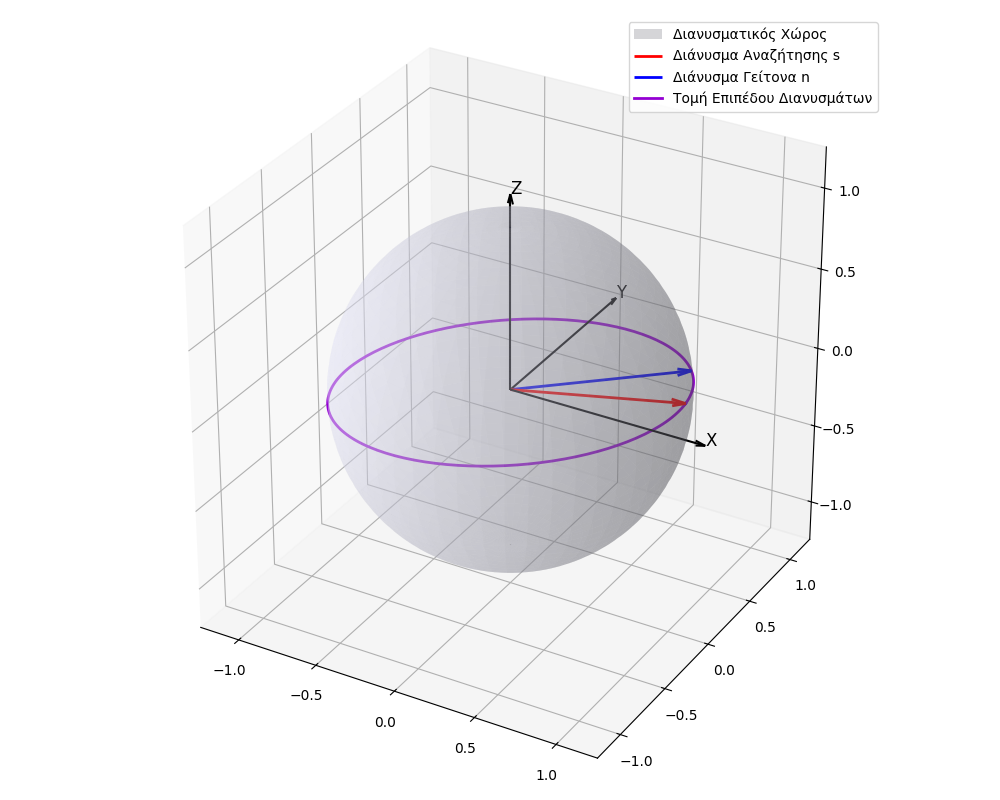
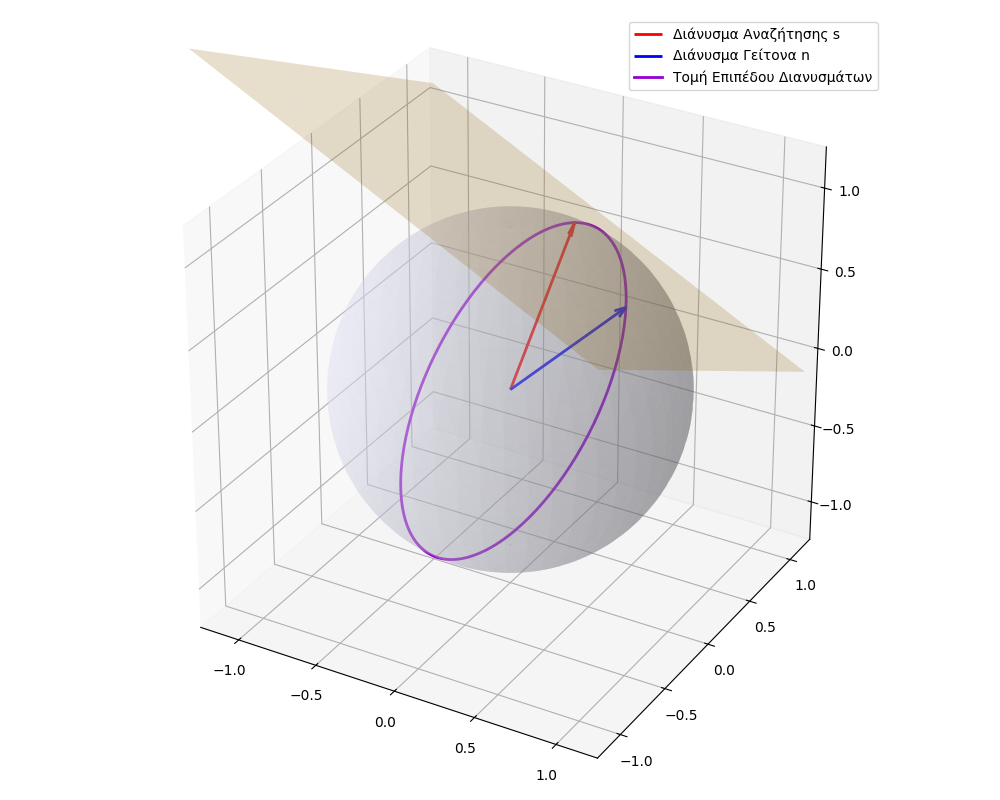
plane plotting

diff --git a/llm_blockmerger/core/plots.py b/llm_blockmerger/core/plots.py
@@ -1,25 +1,29 @@
 import numpy as np
 import matplotlib.pyplot as plt
 
-def plot_sphere():
-    fig = plt.figure(figsize=(10, 8))
-    ax = fig.add_subplot(111, projection='3d')
-
-    u, v = np.mgrid[0:2*np.pi:100j, 0:np.pi:100j]
+def sphere(ax):
+    u, v = np.mgrid[0:2 * np.pi:100j, 0:np.pi:100j]
     x_s = np.cos(u) * np.sin(v)
     y_s = np.sin(u) * np.sin(v)
     z_s = np.cos(v)
-    ax.plot_surface(x_s, y_s, z_s, color='lavender', alpha=0.3, edgecolor='none', label='Διανυσματικός Χώρος')
+    ax.plot_surface(x_s, y_s, z_s, color='lavender', alpha=0.3, edgecolor='none')
 
-    v1 = np.array([1, 0.2, 0.1])
-    v1 = v1 / np.linalg.norm(v1)
-
-    v2 = np.array([0.8, 0.6, 0.05])
-    v2 = v2 / np.linalg.norm(v2)
-
+def vectors(v1, v2, ax):
     ax.quiver(0, 0, 0, *v1, color='red', linewidth=2, arrow_length_ratio=0.08, length=1.0, label='Διάνυσμα Αναζήτησης s')
     ax.quiver(0, 0, 0, *v2, color='blue', linewidth=2, arrow_length_ratio=0.08, length=1.0, label='Διάνυσμα Γείτονα n')
 
+def plane(v1: np.ndarray, v2: np.ndarray, ax):
+    normal = (v1 + v2) / 2
+    normal = normal / np.linalg.norm(normal)
+    a, b, c = normal
+    d = np.dot(normal, v1)
+
+    xx, yy = np.meshgrid(np.linspace(-1.2, 1.2, 30), np.linspace(-1.2, 1.2, 30))
+    zz = (d - a * xx - b * yy) / c
+
+    ax.plot_surface(xx, yy, zz, alpha=0.2, color='orange')
+
+def circle(v1: np.ndarray, v2: np.ndarray, ax):
     normal = np.cross(v1, v2)
     normal = normal / np.linalg.norm(normal)
 
@@ -27,22 +31,27 @@ def plot_sphere():
     v_dir = np.cross(normal, u_dir)
 
     theta = np.linspace(0, 2 * np.pi, 200)
-    circle = np.array([np.cos(t)*u_dir + np.sin(t)*v_dir for t in theta])
-    ax.plot(circle[:, 0], circle[:, 1], circle[:, 2], color='darkviolet', linewidth=2, label='Τομή Επιπέδου Διανυσμάτων')
+    c = np.array([np.cos(t) * u_dir + np.sin(t) * v_dir for t in theta])
+    ax.plot(c[:, 0], c[:, 1], c[:, 2], color='darkviolet', linewidth=2,
+            label='Τομή Επιπέδου Διανυσμάτων')
 
-    axis_length = 1.2
-    ax.quiver(0, 0, 0, axis_length, 0, 0, color='black', linewidth=1.5, arrow_length_ratio=0.05)
-    ax.quiver(0, 0, 0, 0, axis_length, 0, color='black', linewidth=1.5, arrow_length_ratio=0.05)
-    ax.quiver(0, 0, 0, 0, 0, axis_length, color='black', linewidth=1.5, arrow_length_ratio=0.05)
+def plot_sphere():
+    fig = plt.figure(figsize=(10, 8))
+    ax = fig.add_subplot(111, projection='3d')
+    v1 = np.array([0, 1, 1])
+    v2 = np.array([1, 0, 1])
+    v1 = v1 / np.linalg.norm(v1)
+    v2 = v2 / np.linalg.norm(v2)
 
-    ax.text(axis_length, 0, 0, 'X', color='black', fontsize=12)
-    ax.text(0, axis_length, 0, 'Y', color='black', fontsize=12)
-    ax.text(0, 0, axis_length, 'Z', color='black', fontsize=12)
+    sphere(ax)
+    vectors(v1, v2, ax)
+    plane(v1, v2, ax)
+    circle(v1, v2, ax)
 
     ax.set_xlim((-1.2, 1.2))
     ax.set_ylim((-1.2, 1.2))
     ax.set_zlim((-1.2, 1.2))
-    ax.set_box_aspect([1,1,1])
+    ax.set_box_aspect([1, 1, 1])
     ax.legend()
     plt.tight_layout()
     plt.savefig('../../plots/sphere.png')
